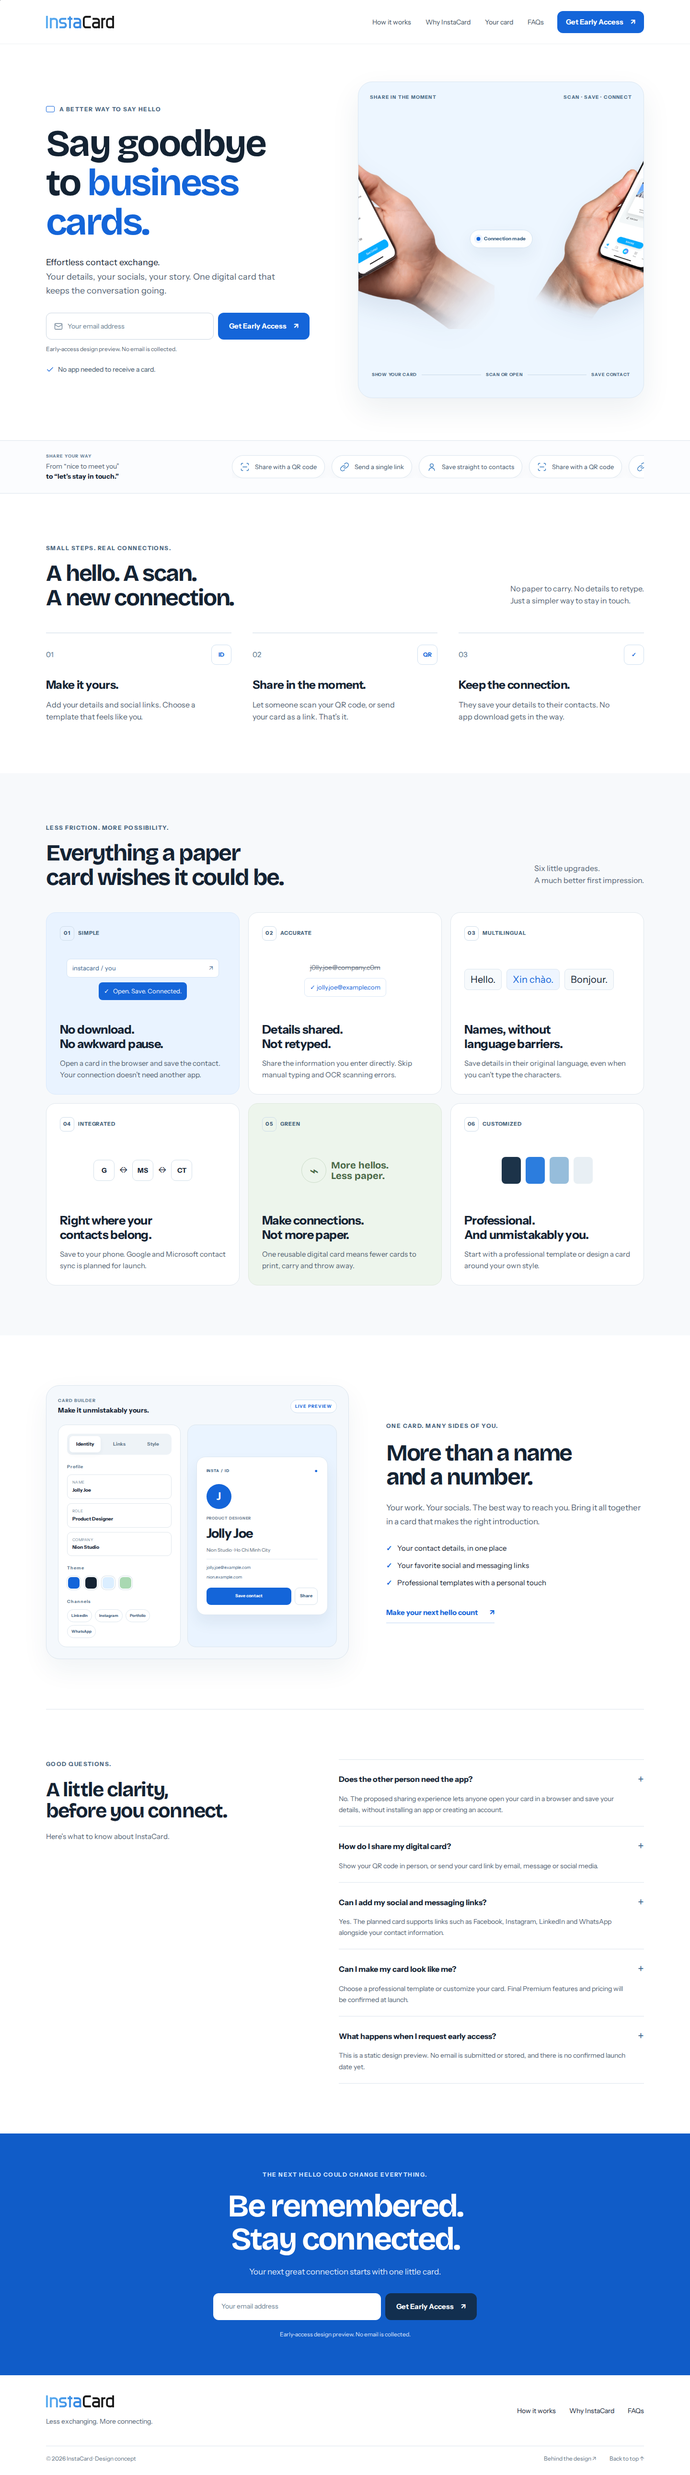
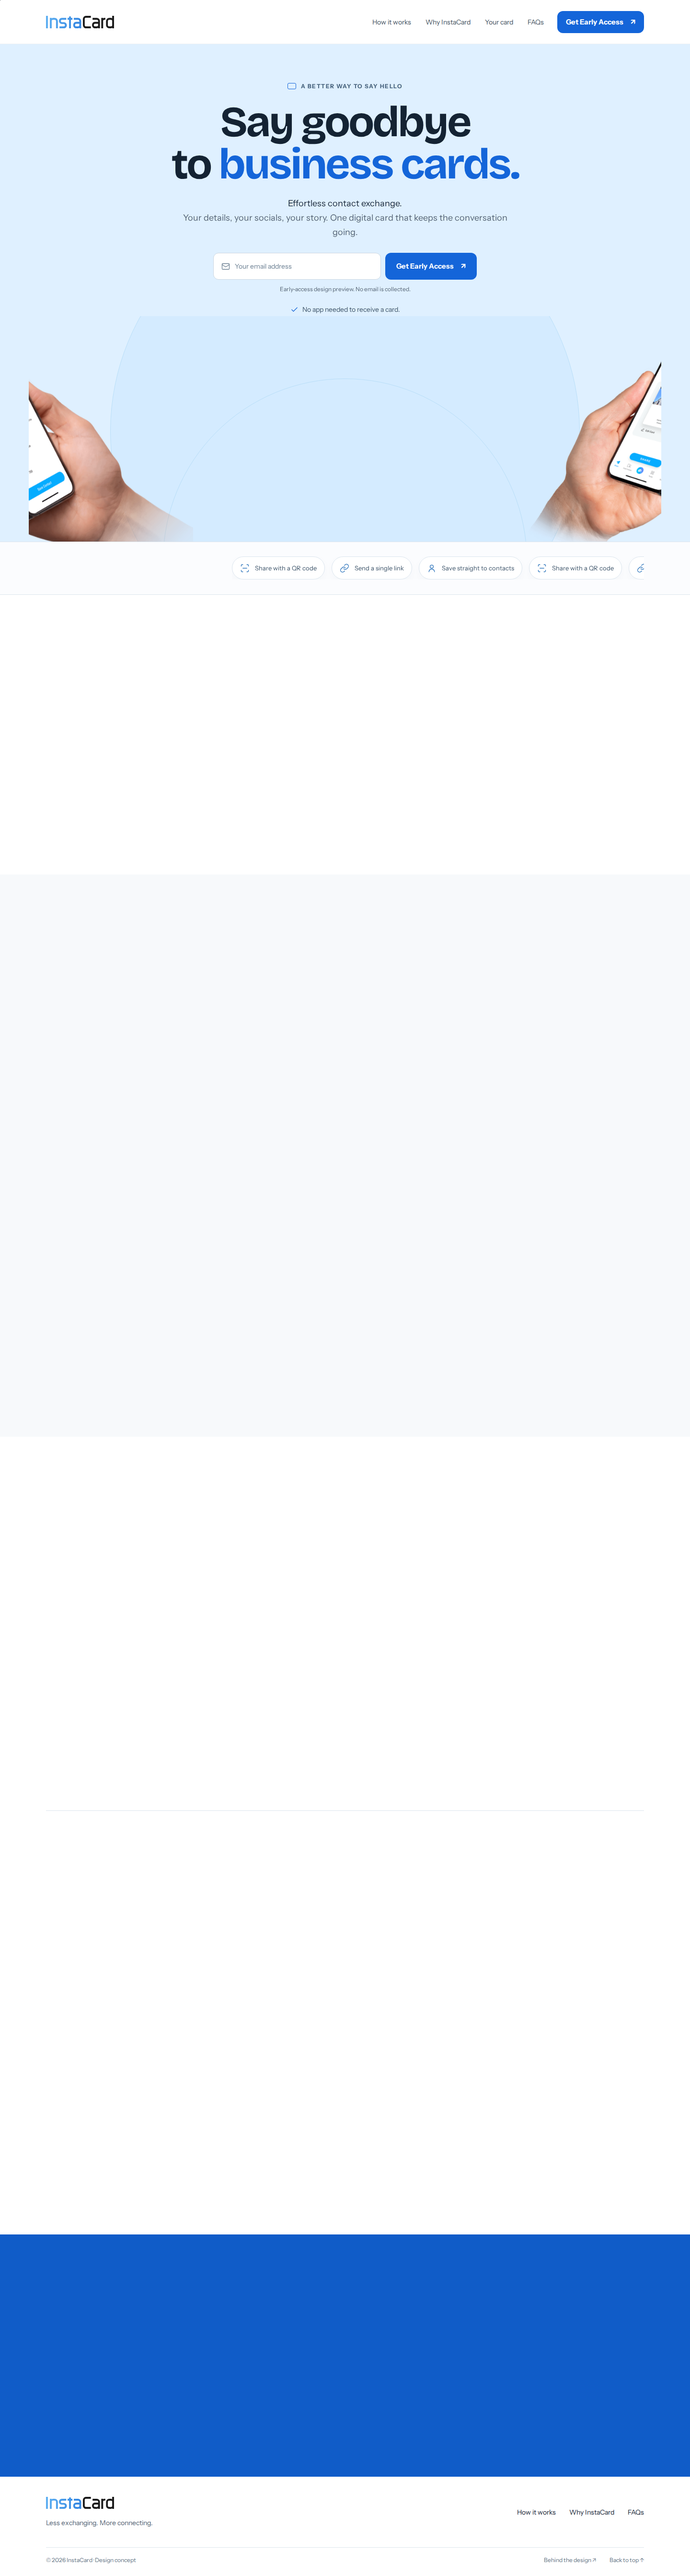
Match hero composition to CamCard reference
Center the hero copy and CTA, place the two InstaCard hand/phone visuals directly below, and tune the scroll-scrub interaction so the hands move inward like the CamCard reference while preserving mobile, reduced-motion and Figma-static behavior.

diff --git a/script.js b/script.js
@@ -28,42 +28,37 @@ if (isMotionEnhanced) {
 }
 
 // Scroll-scrubbed "meet in the middle" hero hands.
-// Recreates the supplied GSAP/ScrollTrigger behavior with native requestAnimationFrame
-// so the landing keeps zero animation-runtime dependencies.
+// CamCard-inspired composition: headline/CTA stay above; both hands live directly below
+// and move inward as the page scrolls through the hero.
 const handsStage = document.querySelector('[data-hands-stage]');
 
 if (handsStage) {
   const handFromLeft = handsStage.querySelector('.hand-from-left');
   const handFromRight = handsStage.querySelector('.hand-from-right');
-  const signal = handsStage.querySelector('.hands-signal');
 
   const clamp = value => Math.min(1, Math.max(0, value));
-  const easeOut = value => 1 - Math.pow(1 - value, 2);
+  const easeOut = value => 1 - Math.pow(1 - value, 3);
 
   const setHandsPose = progress => {
-    if (!handFromLeft || !handFromRight || !signal) return;
+    if (!handFromLeft || !handFromRight) return;
 
-    const p = clamp(progress);
-    const eased = easeOut(p);
+    const p = easeOut(clamp(progress));
     const compact = window.innerWidth <= 760;
 
-    const leftStart = compact ? -50 : -52;
-    const leftEnd = compact ? -6 : -8;
-    const rightStart = compact ? 50 : 52;
-    const rightEnd = compact ? 6 : 8;
+    const leftStart = compact ? -58 : -28;
+    const leftEnd = compact ? 4 : 24;
+    const rightStart = compact ? 58 : 28;
+    const rightEnd = compact ? -4 : -24;
 
-    const leftX = leftStart + (leftEnd - leftStart) * eased;
-    const rightX = rightStart + (rightEnd - rightStart) * eased;
-    const startScale = compact ? 0.9 : 0.88;
-    const endScale = compact ? 0.98 : 1;
-    const scale = startScale + (endScale - startScale) * eased;
+    const startScale = compact ? 0.86 : 0.88;
+    const endScale = compact ? 0.98 : 1.04;
 
-    handFromLeft.style.transform = `translate3d(${leftX}%, 0, 0) scale(${scale})`;
-    handFromRight.style.transform = `translate3d(${rightX}%, 0, 0) scale(${scale})`;
+    const leftX = leftStart + (leftEnd - leftStart) * p;
+    const rightX = rightStart + (rightEnd - rightStart) * p;
+    const scale = startScale + (endScale - startScale) * p;
 
-    const signalProgress = clamp((eased - 0.58) / 0.42);
-    signal.style.opacity = String(signalProgress);
-    signal.style.transform = `translate(-50%, -50%) scale(${0.88 + signalProgress * 0.12})`;
+    handFromLeft.style.transform = `translate3d(${leftX}%,0,0) scale(${scale})`;
+    handFromRight.style.transform = `translate3d(${rightX}%,0,0) scale(${scale})`;
   };
 
   if (isMotionEnhanced) {
@@ -72,19 +67,15 @@ if (handsStage) {
     const updateHands = () => {
       ticking = false;
 
-      if (window.innerWidth <= 760) {
-        const rect = handsStage.getBoundingClientRect();
-        const start = window.innerHeight * 0.92;
-        const end = window.innerHeight * 0.28;
-        setHandsPose((start - rect.top) / (start - end));
-        return;
-      }
-
       const hero = handsStage.closest('.hero');
-      const headerOffset = 88;
-      const start = Math.max(0, (hero?.offsetTop || 0) - headerOffset);
-      const range = Math.min(560, Math.max(360, (hero?.offsetHeight || 720) * 0.68));
-      setHandsPose((window.scrollY - start) / range);
+      if (!hero) return;
+
+      const heroTop = hero.offsetTop;
+      const heroHeight = hero.offsetHeight;
+      const startY = Math.max(0, heroTop - 40);
+      const endY = startY + Math.min(620, Math.max(360, heroHeight * 0.55));
+
+      setHandsPose((window.scrollY - startY) / (endY - startY));
     };
 
     const requestHandsUpdate = () => {

diff --git a/styles.css b/styles.css
@@ -1035,3 +1035,171 @@ html.figma-static .hands-signal{
     transform:translate(-50%,-50%) scale(1)!important;
   }
 }
+
+
+/* CamCard-inspired hero composition: centered message with two hands directly below. */
+.hero.hero-camcard{
+  display:block;
+  width:100%;
+  max-width:none;
+  margin:0;
+  padding:62px 0 0;
+  overflow:hidden;
+  background:#dff0ff;
+}
+.hero-camcard .hero-copy{
+  position:relative;
+  z-index:5;
+  display:flex;
+  flex-direction:column;
+  align-items:center;
+  text-align:center;
+}
+.hero-camcard .hero-copy .eyebrow{
+  justify-content:center;
+}
+.hero-camcard .hero-copy h1{
+  max-width:920px;
+  margin:0 auto 24px;
+  font-size:clamp(58px,6.2vw,92px);
+  line-height:.98;
+}
+.hero-camcard .hero-sub{
+  max-width:700px;
+  margin:0 auto;
+  font-size:18px;
+}
+.hero-camcard .early-access-panel{
+  width:min(620px,100%);
+  margin:28px auto 0;
+}
+.hero-camcard .form-caption{
+  width:100%;
+  text-align:center;
+}
+.hero-camcard .hero-reassurance{
+  justify-content:center;
+}
+.hero-camcard .hero-hands-stage{
+  position:relative;
+  width:100%;
+  min-height:470px;
+  margin-top:18px;
+  padding:0;
+  border:0;
+  border-radius:0;
+  background:transparent;
+  box-shadow:none;
+  overflow:hidden;
+}
+.hero-camcard .hands-motion-window{
+  position:relative;
+  width:min(1320px,100%);
+  min-height:470px;
+  margin:0 auto;
+  overflow:hidden;
+  isolation:isolate;
+}
+.hero-camcard .hero-orbit{
+  position:absolute;
+  left:50%;
+  border:1px solid #b9def8;
+  border-radius:50%;
+  transform:translateX(-50%);
+  pointer-events:none;
+}
+.hero-camcard .orbit-one{
+  bottom:-260px;
+  width:980px;
+  height:980px;
+  background:#d4ebff;
+}
+.hero-camcard .orbit-two{
+  bottom:-420px;
+  width:760px;
+  height:760px;
+  background:transparent;
+}
+.hero-camcard .hero-hand{
+  position:absolute;
+  z-index:2;
+  bottom:-120px;
+  width:clamp(430px,45vw,640px);
+  max-width:none;
+  height:auto;
+  top:auto;
+  filter:none;
+  pointer-events:none;
+  user-select:none;
+  will-change:transform;
+}
+.hero-camcard .hand-from-left{
+  left:-6%;
+  right:auto;
+  transform:translate3d(-28%,0,0) scale(.88);
+}
+.hero-camcard .hand-from-right{
+  right:-6%;
+  left:auto;
+  transform:translate3d(28%,0,0) scale(.88);
+}
+
+@media(max-width:760px){
+  .hero.hero-camcard{
+    padding:44px 0 0;
+  }
+  .hero-camcard .hero-copy h1{
+    max-width:340px;
+    font-size:52px;
+  }
+  .hero-camcard .hero-sub{
+    max-width:340px;
+    font-size:16px;
+  }
+  .hero-camcard .early-access-panel{
+    width:100%;
+  }
+  .hero-camcard .hero-hands-stage,
+  .hero-camcard .hands-motion-window{
+    min-height:380px;
+  }
+  .hero-camcard .hero-hands-stage{
+    margin-top:12px;
+  }
+  .hero-camcard .hero-hand{
+    bottom:-60px;
+    width:clamp(330px,92vw,460px);
+  }
+  .hero-camcard .hand-from-left{
+    left:-28%;
+  }
+  .hero-camcard .hand-from-right{
+    right:-28%;
+  }
+  .hero-camcard .orbit-one{
+    bottom:-190px;
+    width:620px;
+    height:620px;
+  }
+  .hero-camcard .orbit-two{
+    bottom:-290px;
+    width:470px;
+    height:470px;
+  }
+}
+
+html.figma-static .hero-camcard .hand-from-left{
+  transform:translate3d(8%,0,0) scale(.98)!important;
+}
+html.figma-static .hero-camcard .hand-from-right{
+  transform:translate3d(-8%,0,0) scale(.98)!important;
+}
+
+@media(prefers-reduced-motion:reduce){
+  .hero-camcard .hand-from-left{
+    transform:translate3d(8%,0,0) scale(.98)!important;
+  }
+  .hero-camcard .hand-from-right{
+    transform:translate3d(-8%,0,0) scale(.98)!important;
+  }
+}

diff --git a/index.html b/index.html
@@ -40,8 +40,8 @@
   </header>
 
   <main id="main">
-    <section class="hero container" id="top" aria-labelledby="hero-title">
-      <div class="hero-copy" data-reveal="hero-copy">
+    <section class="hero hero-camcard" id="top" aria-labelledby="hero-title">
+      <div class="hero-copy container" data-reveal="hero-copy">
         <p class="eyebrow"><span class="tiny-card" aria-hidden="true"></span>A BETTER WAY TO SAY HELLO</p>
         <h1 id="hero-title">Say goodbye<br>to <span class="blue">business cards.</span></h1>
         <p class="hero-sub"><strong>Effortless contact exchange.</strong><br>Your details, your socials, your story. One digital card that keeps the conversation going.</p>
@@ -62,16 +62,9 @@
       </div>
 
       <div class="hero-hands-stage" data-reveal="hero-visual" data-hands-stage aria-label="Two InstaCard phone mockups move toward each other as you scroll">
-        <div class="hands-topline">
-          <span>SHARE IN THE MOMENT</span>
-          <span>SCAN · SAVE · CONNECT</span>
-        </div>
-
         <div class="hands-motion-window">
-          <div class="hands-signal" aria-hidden="true">
-            <span class="hands-signal-dot"></span>
-            <strong>Connection made</strong>
-          </div>
+          <div class="hero-orbit orbit-one" aria-hidden="true"></div>
+          <div class="hero-orbit orbit-two" aria-hidden="true"></div>
 
           <img
             src="./assets/hand_right.png"
@@ -92,14 +85,6 @@
             loading="eager"
             decoding="async"
             fetchpriority="high">
-        </div>
-
-        <div class="hands-caption">
-          <span>SHOW YOUR CARD</span>
-          <i aria-hidden="true"></i>
-          <span>SCAN OR OPEN</span>
-          <i aria-hidden="true"></i>
-          <span>SAVE CONTACT</span>
         </div>
       </div>
 
